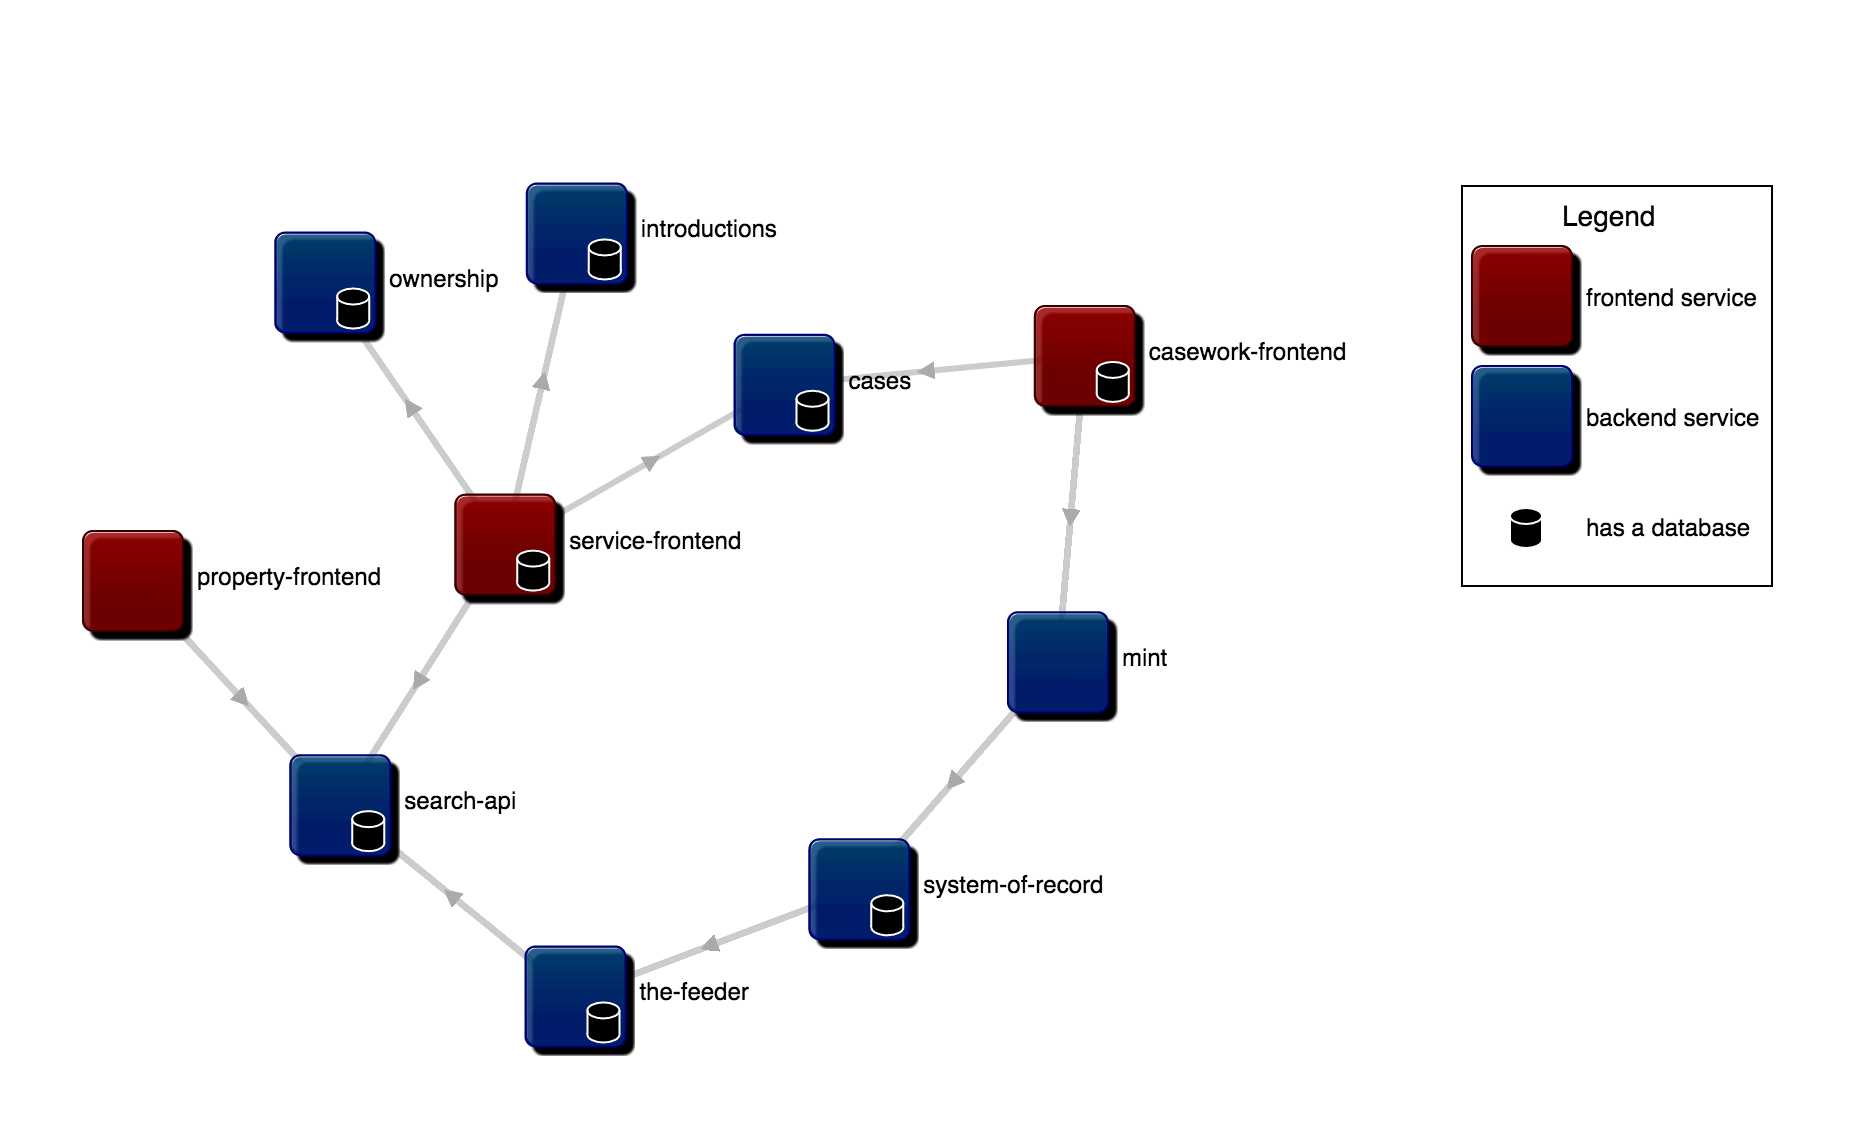
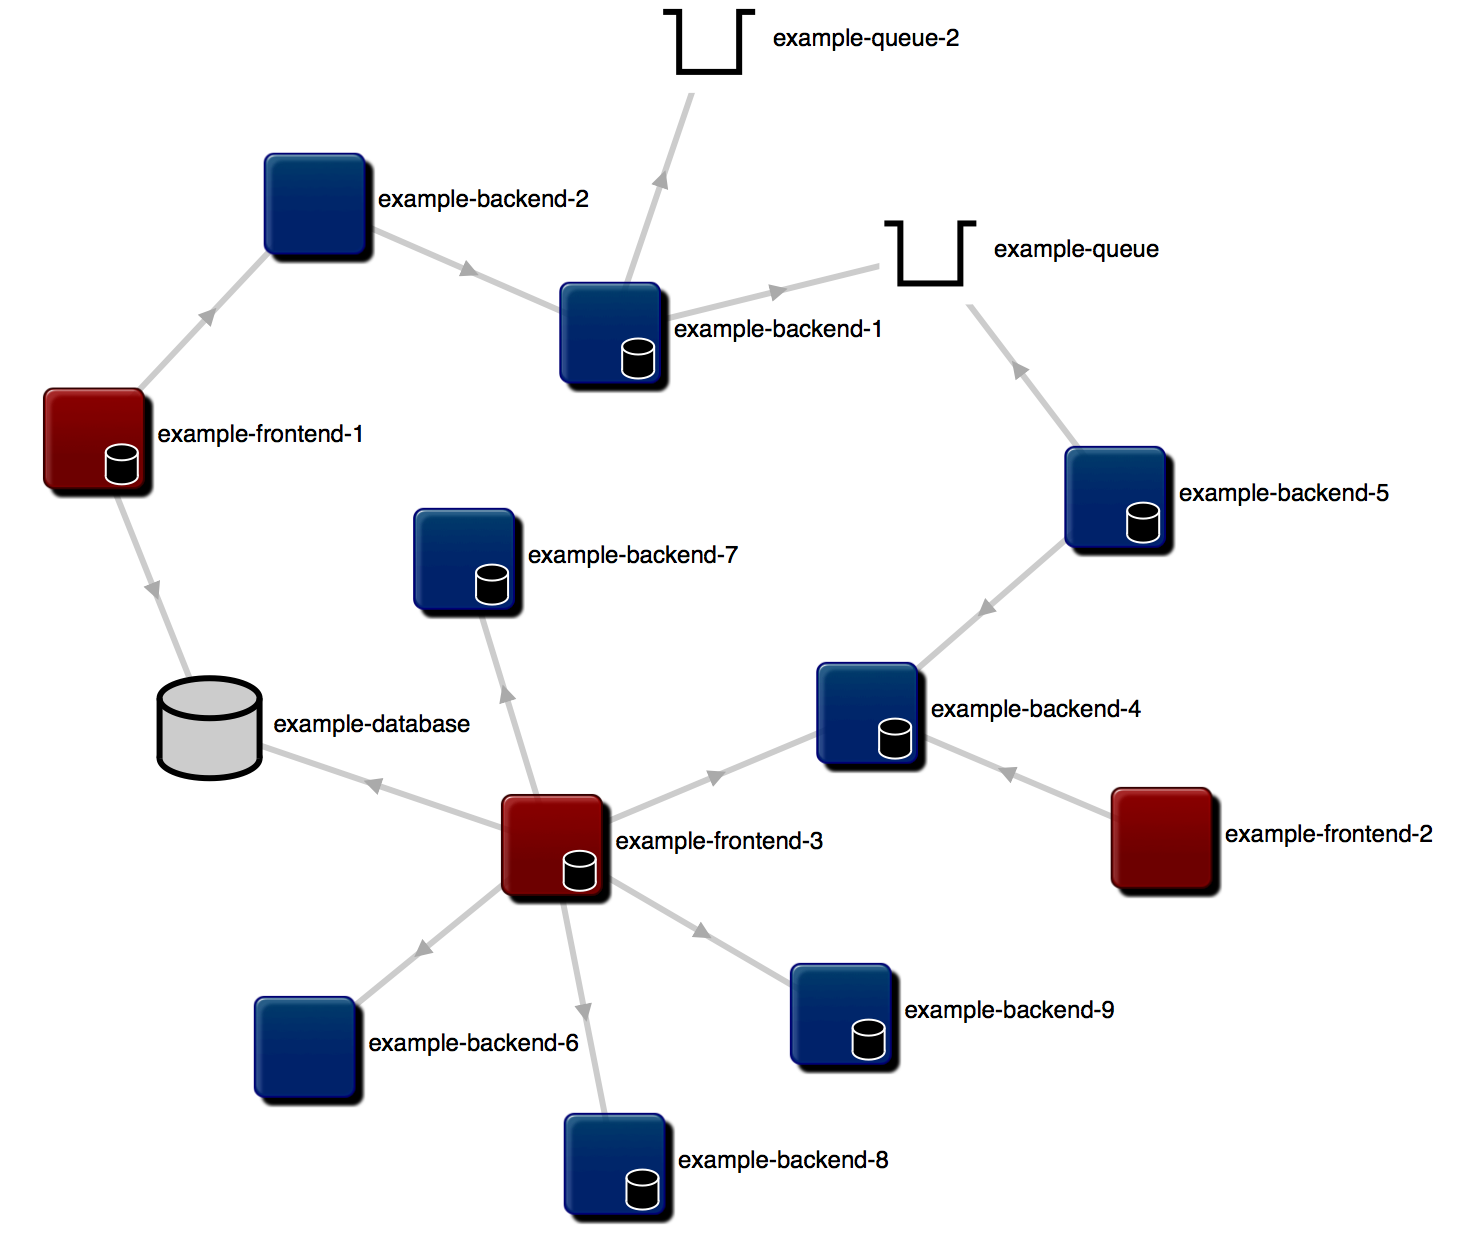
added database type and extended example and readme

diff --git a/arch-draw.js b/arch-draw.js
@@ -41,7 +41,7 @@ function processNodes(service, json) {
   var node = {};
 
   node["name"] = service.name;
-  node["github"] = service.github;
+  node["code_url"] = service.code_url;
   node["url"] = service.url;
   node["port"] = service.port;
   node["type"] = service.type;
@@ -268,7 +268,7 @@ function drawArchitecture(options, json) {
     .style("top", (d3.event.pageY - 28) + "px")
     .html(function(){
       var type = "<p>Type: " + d.type + "</p>";
-      var sourceCode = ((d.github == "") ? "" : "<p>Source code: " + d.github + " (double click service to go to github)</p>");
+      var sourceCode = ((d.code_url == "" || d.code_url == null) ? "" : "<p>Source code: " + d.code_url + " (double click to go to code repository)</p>");
       var tech = ((d.tech == "") ? "" : "<p>Technology: " + d.tech + " </p>");
       var dep = ((d.dep == "") ? "" : "<p>Dependencies: " + d.dep + " </p>");
       return type + sourceCode + tech + dep;
@@ -448,10 +448,13 @@ function drawArchitecture(options, json) {
       case "queue":
         return "white";
         break;
+      case "database":
+        return "white";
+        break;
       };  })
-  .attr("stroke", function(d) { if (d.type=="queue") { return "white"}
+  .attr("stroke", function(d) { if (d.type=="queue" || d.type=="database") { return "white"}
                                 else { return ((d.type=="back-end") ? "#000173" : "#360000")}})
-  .attr("filter",function(d) { return (((d.type=="queue")) ? "none" : "url(#virtual_light)")});
+  .attr("filter",function(d) { return (((d.type=="queue" || d.type=="database")) ? "none" : "url(#virtual_light)")});
 
   nodes.append("text")
   .text(function(d) { return d.name; })
@@ -482,12 +485,62 @@ function drawArchitecture(options, json) {
 
     };
 
+    if (d.type == "database") {
+
+      bigDatabase = node.append("g")
+      .attr("fill","#cc00ff")
+      .attr("style","stroke-width:3;fill-opacity:1");
+
+      bigDatabase.append("ellipse")
+      .attr("rx","25")
+      .attr("ry","10")
+      .attr("cx","25")
+      .attr("cy","40")
+      .attr("fill","#cccccc")
+      .attr("stroke","#000000");
+
+      bigDatabase.append("rect")
+      .attr("width","50")
+      .attr("height","30")
+      .attr("x","0")
+      .attr("y","10")
+      .attr("fill","#cccccc")
+      .attr("stroke","none");
+
+      bigDatabase.append("ellipse")
+      .attr("rx","25")
+      .attr("ry","10")
+      .attr("cx","25")
+      .attr("cy","10")
+      .attr("fill","#cccccc")
+      .attr("stroke","#000000");
+
+      bigDatabase.append("line")
+      .attr("x1","0")
+      .attr("y1","10")
+      .attr("x2","0")
+      .attr("y2","40")
+      .attr("fill","#cccccc")
+      .attr("stroke","#000000");
+
+      bigDatabase.append("line")
+      .attr("x1","50")
+      .attr("y1","10")
+      .attr("x2","50")
+      .attr("y2","40")
+      .attr("fill","#cccccc")
+      .attr("stroke","#000000");
+
+    };
+
   });
 
   //on click event for a node
   function onNodeDoubleClick(d) {
 
-    window.location = d.github;
+    if (!(d.code_url=="") && !(d.code_url==null)) {
+      window.location = d.code_url;
+    };
 
   };
 
@@ -599,7 +652,7 @@ function addLegend(options) {
   .attr("y", 175)
   .style("font", "12px sans-serif");
 
-  queueRect = legend.append("rect")
+  legend.append("rect")
   .attr("width", "50")
   .attr("height", "50")
   .attr("rx", "5")

diff --git a/example/index.html b/example/index.html
@@ -11,9 +11,9 @@
 
   <script>
     archDraw({"id":"architecture",
-              "width":"1000",
+              "width":"1100",
               "height":"700",
-              "addLegend":true,
+              "addLegend":false,
               "drawFromCode":false,
               "pathToData":"data/",
               "dataFileName":"services.json"})

diff --git a/README.md b/README.md
@@ -12,3 +12,12 @@ It uses [d3](http://d3js.org/) to draw the architecture and uses data in one of 
 Below is an example of what can be drawn:
 
 ![Example 1](screenshots/arch-example-1.png)
+
+The red components are frontend applications.
+The blue ones are backend applications.
+The little buckets are queues.
+The cylinders are databases.
+
+What you can't see from the picture above is that you can drag each component around to re-arrange the architecture as you want, and when hovering over a component it displays details of that component.
+
+Finally, if a url for the component has been supplied, you can double click the component and it will take you to the source code.
